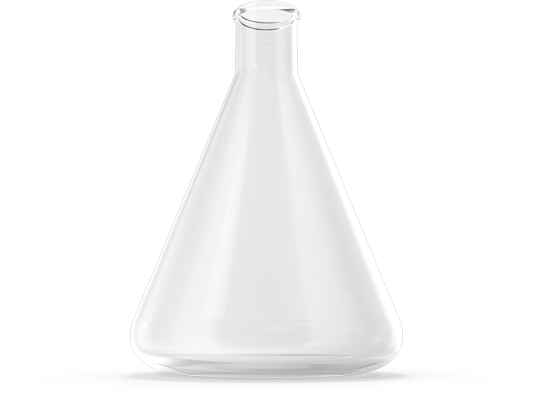
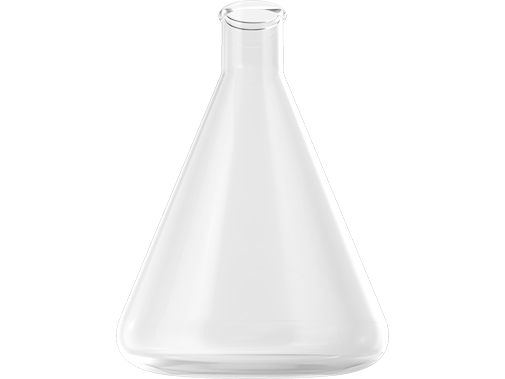
layout edits

diff --git a/src/css/style.min.css b/src/css/style.min.css
@@ -1,1 +1,1 @@
-@font-face{font-family:Gilroy-Regular;src:url(../fonts/Gilroy-Regular/Gilroy-Regular.woff) format("woff");font-weight:400;font-style:normal}@font-face{font-family:Gilroy-SemiBold;src:url(../fonts/Gilroy-SemiBold/Gilroy-SemiBold.woff) format("woff");font-weight:400;font-style:normal}@font-face{font-family:Gilroy-Bold;src:url(../fonts/Gilroy-Bold/Gilroy-Bold.woff) format("woff");font-weight:400;font-style:normal}@font-face{font-family:Gilroy-ExtraBold;src:url(../fonts/Gilroy-ExtraBold/Gilroy-ExtraBold.woff) format("woff");font-weight:400;font-style:normal}@font-face{font-family:Gilroy-Medium;src:url(../fonts/Gilroy-Medium/Gilroy-Medium.woff) format("woff");font-weight:400;font-style:normal}@font-face{font-family:GothamPro-Medium;src:url(../fonts/GothamPro-Medium/GothamPro-Medium.woff) format("woff");font-weight:400;font-style:normal}@font-face{font-family:TheFlowerCity;src:url(../fonts/TheFlowerCity/TheFlowerCity.woff2) format("woff2"),url(../fonts/TheFlowerCity/TheFlowerCity.woff) format("woff");font-weight:400;font-style:normal}*,:after,:before{box-sizing:border-box}html{font-size:16px;line-height:24px;font-family:Gilroy-Regular,sans-serif;color:#0d0d0d;font-style:normal;background-color:#fbf7ff}body,html{overflow-x:hidden}h1,h2,h3,p{margin:0}img{max-width:100%;height:auto}a,a:active,a:hover,a:visited{text-decoration:none}a{color:inherit}strong{font-family:Gilroy-Bold,sans-serif}textarea{resize:vertical}.about-section{background-image:url(../img/about-bg.jpg);background-repeat:no-repeat;background-position:center 0;background-size:auto;padding-top:176px;padding-bottom:160px}.about-section__content{width:50%;padding-right:20px}.about-section__header{margin-bottom:47px}.about-section__text{font-size:18px}.algorithm-node{width:72px;height:72px;border-radius:50%;position:relative;box-shadow:0 3px 5px 0 hsla(0,0%,9%,.02),0 8px 24px 0 rgba(242,186,67,.35);background-color:#fff}.algorithm-node__inner{background-image:-webkit-radial-gradient(50% 50%,circle closest-side,#ffefa1 0,#ecc529 100%);box-shadow:inset 0 -4px 7px 0 rgba(190,113,2,.25)}.algorithm-node__image,.algorithm-node__inner{position:absolute;top:5px;right:5px;bottom:5px;left:5px;border-radius:50px;z-index:1}.algorithm-node__image{background-size:auto;background-repeat:no-repeat;background-position:50%}.algorithm-node__number{position:absolute;font-family:TheFlowerCity;font-size:50px;color:#fdebfc;opacity:.3;transform:matrix(1.97668,-.29147,.29147,1.97668,0,0);left:-15px;bottom:91%;line-height:normal}.algorithm-node_description{width:24px;height:24px}.algorithm-node__text{font-size:18px;position:absolute;top:36px;text-align:center;left:-60px;right:-60px;font-family:Gilroy-Medium,sans-serif}.algorithm-section{background-image:url(../img/algorithm-bg.jpg);background-repeat:no-repeat;background-position:center 0;background-size:auto;padding-top:198px;padding-bottom:220px}.algorithm-section__header{margin-bottom:35px}.algorithm{display:-ms-flexbox;display:flex;-ms-flex-pack:justify;justify-content:space-between;-ms-flex-align:center;align-items:center;padding:183px 0;position:relative}.algorithm:before{content:"";height:4px;position:absolute;top:0;bottom:0;left:0;right:0;margin:auto;background-image:url(../img/algorithm/dot.png)}.algorithm__entity{position:relative;width:72px;height:72px}.algorithm__entity:before{content:"";width:4px;position:absolute;margin:auto;top:50%;left:0;right:0;height:145px;background-image:url(../img/algorithm/dot.png)}.algorithm__entity:nth-child(2n):before{top:auto;bottom:50%}.algorithm__entity:nth-child(2n) .algorithm__description-node{top:auto;bottom:169px}.algorithm__entity:nth-child(2n) .algorithm-node__number{left:auto;bottom:auto;top:52%;right:16px}.algorithm__description-node{position:absolute;margin:auto;left:0;right:0;top:169px}.button{text-shadow:0 2px 0 hsla(50,94%,79%,.004);font-size:16px;color:#0e0e0e;background-image:url(../img/button-bg.png);background-size:contain;background-repeat:no-repeat;box-shadow:0 3px 0 0 rgba(228,177,0,.004),inset 0 2px 27px 0 rgba(225,176,4,.004);width:295px;height:90px;border-radius:28px;display:-ms-flexbox;display:flex;-ms-flex-align:center;align-items:center;-ms-flex-pack:center;justify-content:center;font-family:GothamPro-Medium,sans-serif;text-transform:uppercase;letter-spacing:1px;max-width:100%;-webkit-tap-highlight-color:rgba(255,255,255,0)}.calculator-section{padding-top:47px;padding-bottom:50px}.calculator-section__container{display:grid;grid-template-areas:"a b" "a c" "a d" "a e" "f g";grid-template-columns:505px 1fr;grid-template-rows:145px 148px 70px 84px}.calculator-section__flask-section{grid-area:a;width:100%;max-width:505px;background-image:url(../img/calculator-bg.jpg);background-repeat:no-repeat;background-position:center 0;background-size:auto;background-position:0 0;background-size:contain;height:550px;padding-top:120px}.calculator-section__total{grid-area:f;font-family:Gilroy-Bold,sans-serif;font-size:25px;text-align:center;white-space:nowrap;padding-top:65px}.calculator-section__calculator{padding-top:20px;padding-left:36px;width:50%;margin-left:auto}.calculator-section__header-wrapper{grid-area:b;margin-left:116px;padding-top:19px}.calculator-section__checkboxes-wrapper{grid-area:c;padding-left:116px}.calculator-section__range-wrapper{grid-area:d;padding-left:116px}.calculator-section__design-wrapper{grid-area:e;padding-left:116px}.calculator-section__button-wrapper{grid-area:g;padding-left:116px}.checkbox-label{display:-ms-flexbox;display:flex;-ms-flex-align:center;align-items:center;font-size:18px;font-family:Gilroy-SemiBold,sans-serif}.checkbox-label__checkbox{margin-right:15px;-ms-flex-negative:0;flex-shrink:0}.checkbox{display:block;position:relative;width:34px;height:34px;border-radius:8px;background-color:#f3eef7;box-shadow:inset 0 3px 5px 0 rgba(73,56,91,.05)}.checkbox__mark{opacity:0;position:absolute;top:0;right:0;bottom:0;left:0;background-image:url(../img/checkbox-mark.png);background-repeat:no-repeat;background-position:50%;transition:opacity .1s ease}.checkbox__input{display:none}.checkbox__input:checked+.checkbox__mark{opacity:1}.checkboxes{display:grid;grid-template-rows:1fr 1fr;grid-template-columns:1fr 1fr;grid-row-gap:15px;max-width:358px}.container{max-width:1170px;width:100%;margin:0 auto}.email{padding-left:26px;background-image:url(../img/envelop.png);background-repeat:no-repeat;background-position:0}.flask{width:100%;max-width:547px;height:395px;background-image:url(../img/flask.png);background-size:contain;position:relative}.flask,.flask__full{background-repeat:no-repeat;background-position:bottom}.flask__full{position:absolute;left:0;right:0;bottom:0;height:0;background-image:url(../img/flask_full.png);background-size:100%;transition:height .2s}.footer{background-color:#0d0d0d;color:#e5e5e5;padding:53px 0 52px;font-size:18px}.footer__container{display:grid;grid-template-columns:repeat(3,1fr)}.footer__item{display:-ms-flexbox;display:flex;-ms-flex-align:center;align-items:center;-ms-flex-pack:center;justify-content:center}.footer__item_logo{-ms-flex-pack:start;justify-content:flex-start}.footer__copyright{text-align:center;padding-top:5px}.footer__contacts{display:-ms-flexbox;display:flex;-ms-flex-pack:end;justify-content:flex-end}.footer__phone{margin-bottom:7px}.header-phone{width:203px;margin-top:-7px}.header-phone__phone{font-size:22px;color:#0d0d0d;letter-spacing:-.2px;margin-bottom:7px}.header-phone__callback{display:block;color:#5f22b2;font-size:16px;position:relative;padding-bottom:2px}.header-phone__callback:after{content:"";position:absolute;left:0;right:0;bottom:0;height:2px;background-image:url(../img/phone-dot.png)}.header{display:-ms-flexbox;display:flex;-ms-flex-align:center;align-items:center;-ms-flex-pack:justify;justify-content:space-between;padding-top:64px}.logo{padding-left:80px;position:relative;font-size:20px}.logo:before{content:"";width:62px;height:95px;position:absolute;left:0;bottom:-10px;background-image:url(../img/logo.png);background-repeat:no-repeat}.logo_footer:before{background-image:url(../img/logo_footer.png)}.main-section{padding-bottom:356px;background-image:url(../img/main-bg.jpg);background-repeat:no-repeat;background-position:center 0;background-size:auto}.main-section__header{margin-bottom:209px}.main__header{width:650px;font-size:55px;line-height:70px;margin-bottom:36px;position:relative}.main__important-text{font-family:Gilroy-ExtraBold,sans-serif;color:#5f22b2}.not-selectable{-webkit-user-select:none;-moz-user-select:none;-ms-user-select:none;user-select:none}.phone{display:block;padding-left:24px;background-image:url(../img/phone.png);background-repeat:no-repeat;background-position:0;font-family:Gilroy-Medium,sans-serif;white-space:nowrap}.range{background-color:#f3eef7;box-shadow:inset 0 3px 5px 0 rgba(73,56,91,.05);width:100%;max-width:451px;height:11px;border-radius:50px;position:relative}.range__filled{width:33%;opacity:.839;left:0}.range__filled,.range__thumb{background-image:linear-gradient(90deg,#7930ab,#b966d1);position:absolute;top:0;bottom:0;border-radius:50px}.range__thumb{width:34px;height:34px;transform:translateX(-50%);box-shadow:0 3px 7px 0 rgba(163,87,201,.26);margin:auto;left:33%;cursor:pointer}.range__thumb:after{content:"";width:14px;height:14px;border-radius:50px;background-color:#fff;top:0;bottom:0}.range__count,.range__thumb:after{position:absolute;right:0;left:0;margin:auto}.range__count{top:-30px;color:#853ab2;font-size:22px;font-family:Gilroy-Bold,sans-serif}.range__count,.range__text{text-align:center;cursor:auto}.range__text{position:absolute;bottom:-30px;left:-60px;right:-60px;white-space:nowrap;font-size:18px;opacity:.6}.request-section{background-image:url(../img/request-bg.jpg);background-repeat:no-repeat;background-position:center 0;background-size:auto;padding-top:115px;padding-bottom:140px}.request-section__content{width:50%;margin-left:auto;padding-left:35px}.request-section__header{margin-bottom:23px}.request-section__text{margin-bottom:35px;color:#696969;font-size:18px;padding-right:50px}.section-header{font-size:50px;line-height:normal;font-weight:400;position:relative;z-index:1}.section-header__background{position:absolute;top:0;bottom:0;left:-20px;margin:auto;transform:rotate(-10deg);font-size:80px;color:#fdebfc;font-family:TheFlowerCity;text-align:center;width:10px;white-space:nowrap;z-index:-1}.section{padding-left:20px;padding-right:20px}.service{width:282px;height:181px;background-image:url(../img/services/service-bg.png);background-size:100% 100%;display:-ms-flexbox;display:flex;-ms-flex-align:center;align-items:center;padding-left:45px;padding-right:35px;font-size:18px;position:relative}.service:before{content:"";position:absolute;top:0;right:0;bottom:0;left:0;background-image:url(../img/services/service-bg_hover.png);background-size:inherit;opacity:0;transition:opacity .2s}.service:hover .service__circle:after,.service:hover:before{opacity:1}.service__content{z-index:1}.service__circle{position:absolute;width:67px;height:67px;border-radius:50%;background-image:-webkit-radial-gradient(50% 50%,circle closest-side,#ebdaf2 0,#d1b3fa 100%)}.service__circle:after{content:"";border-radius:50px;background-image:-webkit-radial-gradient(50% 50%,circle closest-side,#cd74d7 0,#5f22b2 100%);transition:opacity .2s;opacity:0}.service__circle:after,.service__image{position:absolute;top:0;right:0;bottom:0;left:0}.service__image{background-repeat:no-repeat}.service__illustration{width:150px;height:130px;position:absolute;left:5px;bottom:131px}.service__illustration_1 .service__circle_1{top:49px;left:2px}.service__illustration_1 .service__circle_2{top:38px;left:81px;width:22px;height:22px}.service__illustration_1 .service__circle_3{width:11px;height:11px;top:71px;left:115px}.service__illustration_1 .service__image{background-image:url(../img/services/1.png);background-position:11px 62px}.service__illustration_2 .service__circle_1{top:13px;left:53px;width:83px;height:83px}.service__illustration_2 .service__circle_2{top:82px;left:143px;width:22px;height:22px}.service__illustration_2 .service__image{background-image:url(../img/services/2.png);background-position:15px 29px}.service__illustration_3 .service__circle_1{top:55px;left:1px;width:67px;height:67px}.service__illustration_3 .service__circle_2{top:30px;left:65px;width:22px;height:22px}.service__illustration_3 .service__image{background-image:url(../img/services/3.png);background-position:2px 22px}.service__illustration_4 .service__circle_1{width:22px;height:22px;top:60px;left:7px}.service__illustration_4 .service__circle_2{top:114px;left:37px;width:11px;height:11px}.service__illustration_4 .service__circle_3{top:73px;left:67px;width:40px;height:40px}.service__illustration_4 .service__image{background-image:url(../img/services/4.png);background-position:4px 17px}.services-section{padding-bottom:89px}.services-section__header{margin-bottom:114px}.services-section__services{display:grid;grid-template-columns:repeat(4,282px);grid-gap:14px}.services-section__item{margin:auto}@media (min-width:769px) and (max-width:1024px){.calculator-section__container{grid-template-areas:"a b" "a c" "a d" "f e" "f g";grid-template-columns:415px 1fr}}@media (min-width:769px) and (max-width:1199px){.services-section__services{grid-template-columns:1fr 1fr;grid-template-rows:1fr 1fr;grid-row-gap:100px}}@media (max-width:768px){.about-section{padding-top:106px;background-image:url(../img/about-bg_mobile.jpg);height:854px}.about-section__content{width:auto;padding:0}.about-section__header{margin-bottom:26px}.about-section__text{font-size:16px;text-align:center;margin-left:auto;margin-right:auto;max-width:320px}.algorithm-node__number{display:none}.algorithm-node__text{font-size:16px;top:auto;bottom:31px}.algorithm-node__text_mobile-fix{text-align:left;transform:translate(23px)}.algorithm-section{background-image:url(../img/algorithm-bg_mobile.jpg);margin-top:-97px;padding-bottom:184px}.algorithm-section__header{margin-bottom:54px}.algorithm{-ms-flex-direction:column;flex-direction:column;padding:0}.algorithm:before{height:auto;width:4px}.algorithm__entity:before{top:0;left:50%;bottom:0;right:auto;width:108px;height:4px}.algorithm__entity:nth-child(2n):before{top:0;bottom:0;right:50%;left:auto}.algorithm__entity:nth-child(2n) .algorithm__description-node{bottom:0;top:0;left:auto;right:130px}.algorithm__entity:not(:last-child){margin-bottom:75px}.algorithm__description-node{top:0;bottom:0;left:130px}.button{background-image:url(../img/button-bg_mobile.png);max-width:320px;width:100%;height:78px}.calculator-section{padding-top:0;padding-bottom:0;margin-top:-100px;background-image:url(../img/calculator-bg_mobile.jpg);background-repeat:no-repeat;background-position:center 0;background-size:auto;background-position:center 33px}.calculator-section__container{max-width:320px;grid-template-areas:"b b" "a c" "d d" "e e" "f f" "g g";grid-template-columns:132px 1fr;grid-template-rows:101px 253px 77px 0 159px}.calculator-section__flask-section{background-image:none;position:relative}.calculator-section__flask{position:absolute;top:-7px;left:-150px;width:288px}.calculator-section__total{font-family:Gilroy-Bold,sans-serif;font-size:24px;text-align:left;padding-left:48px}.calculator-section__total-text{font-family:Gilroy-Regular,sans-serif;font-size:18px;display:block;opacity:.61;margin-bottom:5px}.calculator-section__calculator{width:auto;margin:0;padding-left:0}.calculator-section__header-wrapper{margin-left:0}.calculator-section__checkboxes{position:absolute;top:0;left:0}.calculator-section__checkboxes-wrapper{padding-left:0;position:relative}.calculator-section__design-wrapper,.calculator-section__range-wrapper{padding-left:0}.calculator-section__button{margin:auto}.calculator-section__button-wrapper{padding-left:0}.checkbox-label__checkbox{margin-right:10px}.checkboxes__item_vk{grid-area:h}.checkboxes__item_instagram{grid-area:i}.checkboxes__item_fb{grid-area:j}.checkboxes__item_ok{grid-area:k}.checkboxes{grid-template-areas:"i" "j" "h" "k";grid-template-columns:1fr;grid-template-rows:repeat(4,1fr)}.footer{padding-top:54px;padding-bottom:30px}.footer__container{display:-ms-flexbox;display:flex;-ms-flex-direction:column;flex-direction:column}.footer__item{display:-ms-flexbox;display:flex;-ms-flex-pack:center;justify-content:center;margin-bottom:30px}.footer__item_copyright{-ms-flex-order:3;order:3;margin-bottom:0}.footer__item_contacts{-ms-flex-order:2;order:2;margin-bottom:27px}.footer__copyright{color:#645f6f}.header-phone{width:34px;height:34px}.header-phone__phone{color:transparent;width:100%;height:100%;overflow:hidden;background-image:url(../img/phone_mobile.png)}.header-phone__callback{display:none}.header{padding-top:25px}.logo{font-size:18px;padding-left:50px;line-height:22px}.logo:before{width:40px;height:70px;background-size:contain}.logo_footer{font-size:20px;padding-left:82px;margin-bottom:15px}.logo_footer:before{width:62px;height:95px}.main-section{background-image:url(../img/main-bg_mobile.jpg);height:720px}.main-section__header{margin-bottom:40px}.main__header{text-align:center;font-size:34px;line-height:45px;width:auto;font-family:Gilroy-Regular,sans-serif;margin:0 auto 60px;font-weight:400;max-width:400px}.main__button-wrapper{margin:auto;position:absolute;left:0;right:0;top:560px;padding:0 20px;display:-ms-flexbox;display:flex;-ms-flex-pack:center;justify-content:center}.request-section{padding-top:36px;padding-bottom:390px;background-image:url(../img/request-bg_mobile.jpg);background-position:bottom}.request-section__content{width:auto;margin:0;padding-left:0}.request-section__text{text-align:center;padding:0;margin-bottom:46px}.request-section__button{margin:auto}.section-header{font-size:34px;text-align:center}.section-header__background{font-size:37px;text-align:center;transform:matrix(1.56752,-.23114,.23114,1.56752,0,0);left:0;right:0;margin:auto;width:auto}.services-section{padding-bottom:0}.services-section__services{width:100%;grid-template-columns:1fr;grid-template-rows:repeat(4,1fr);grid-gap:100px}}@media (max-width:425px){.main__header{font-size:24px;line-height:35px}.section-header{font-size:25px;line-height:33px}.section-header__background{font-size:27px}.service__illustration{left:0;right:0;margin:auto}.services-section__header{margin-bottom:71px}}
+@font-face{font-family:Gilroy-Regular;src:url(../fonts/Gilroy-Regular/Gilroy-Regular.woff) format("woff");font-weight:400;font-style:normal}@font-face{font-family:Gilroy-SemiBold;src:url(../fonts/Gilroy-SemiBold/Gilroy-SemiBold.woff) format("woff");font-weight:400;font-style:normal}@font-face{font-family:Gilroy-Bold;src:url(../fonts/Gilroy-Bold/Gilroy-Bold.woff) format("woff");font-weight:400;font-style:normal}@font-face{font-family:Gilroy-ExtraBold;src:url(../fonts/Gilroy-ExtraBold/Gilroy-ExtraBold.woff) format("woff");font-weight:400;font-style:normal}@font-face{font-family:Gilroy-Medium;src:url(../fonts/Gilroy-Medium/Gilroy-Medium.woff) format("woff");font-weight:400;font-style:normal}@font-face{font-family:GothamPro-Medium;src:url(../fonts/GothamPro-Medium/GothamPro-Medium.woff) format("woff");font-weight:400;font-style:normal}@font-face{font-family:TheFlowerCity;src:url(../fonts/TheFlowerCity/TheFlowerCity.woff2) format("woff2"),url(../fonts/TheFlowerCity/TheFlowerCity.woff) format("woff");font-weight:400;font-style:normal}*,:after,:before{box-sizing:border-box}html{font-size:16px;line-height:24px;font-family:Gilroy-Regular,sans-serif;color:#0d0d0d;font-style:normal;background-color:#fbf7ff}body,html{overflow-x:hidden}h1,h2,h3,p{margin:0}img{max-width:100%;height:auto}a,a:active,a:hover,a:visited{text-decoration:none}a{color:inherit}strong{font-family:Gilroy-Bold,sans-serif}textarea{resize:vertical}.about-section{background-image:url(../img/about-bg.jpg);background-repeat:no-repeat;background-position:center 0;background-size:auto;padding-top:176px;padding-bottom:160px}.about-section__content{width:50%;padding-right:20px}.about-section__header{margin-bottom:47px}.about-section__text{font-size:18px}.algorithm-node{width:72px;height:72px;border-radius:50%;position:relative;box-shadow:0 3px 5px 0 hsla(0,0%,9%,.02),0 8px 24px 0 rgba(242,186,67,.35);background-color:#fff}.algorithm-node__inner{background-image:-webkit-radial-gradient(50% 50%,circle closest-side,#ffefa1 0,#ecc529 100%);box-shadow:inset 0 -4px 7px 0 rgba(190,113,2,.25)}.algorithm-node__image,.algorithm-node__inner{position:absolute;top:5px;right:5px;bottom:5px;left:5px;border-radius:50px;z-index:1}.algorithm-node__image{background-size:auto;background-repeat:no-repeat;background-position:50%}.algorithm-node__number{position:absolute;font-family:TheFlowerCity;font-size:50px;color:#fdebfc;opacity:.3;transform:matrix(1.97668,-.29147,.29147,1.97668,0,0);left:-15px;bottom:91%;line-height:normal}.algorithm-node_description{width:24px;height:24px}.algorithm-node__text{font-size:18px;position:absolute;top:36px;text-align:center;left:-60px;right:-60px;font-family:Gilroy-Medium,sans-serif}.algorithm-section{background-image:url(../img/algorithm-bg.jpg);background-repeat:no-repeat;background-position:center 0;background-size:auto;padding-top:198px;padding-bottom:220px}.algorithm-section__header{margin-bottom:35px}.algorithm{display:-ms-flexbox;display:flex;-ms-flex-pack:justify;justify-content:space-between;-ms-flex-align:center;align-items:center;padding:183px 0;position:relative}.algorithm:before{content:"";height:4px;position:absolute;top:0;bottom:0;left:0;right:0;margin:auto;background-image:url(../img/algorithm/dot.png)}.algorithm__entity{position:relative;width:72px;height:72px}.algorithm__entity:before{content:"";width:4px;position:absolute;margin:auto;top:50%;left:0;right:0;height:145px;background-image:url(../img/algorithm/dot.png)}.algorithm__entity:nth-child(2n):before{top:auto;bottom:50%}.algorithm__entity:nth-child(2n) .algorithm__description-node{top:auto;bottom:169px}.algorithm__entity:nth-child(2n) .algorithm-node__number{left:auto;bottom:auto;top:52%;right:16px}.algorithm__entity:nth-child(2n) .algorithm-node__text{top:auto;bottom:36px}.algorithm__description-node{position:absolute;margin:auto;left:0;right:0;top:169px}.button{text-shadow:0 2px 0 hsla(50,94%,79%,.004);font-size:16px;color:#0e0e0e;background-image:url(../img/button-bg.png);background-size:contain;background-repeat:no-repeat;box-shadow:0 3px 0 0 rgba(228,177,0,.004),inset 0 2px 27px 0 rgba(225,176,4,.004);width:295px;height:90px;border-radius:28px;display:-ms-flexbox;display:flex;-ms-flex-align:center;align-items:center;-ms-flex-pack:center;justify-content:center;font-family:GothamPro-Medium,sans-serif;text-transform:uppercase;letter-spacing:1px;max-width:100%;-webkit-tap-highlight-color:rgba(255,255,255,0);transition:all .2s;transform:scale(1)}.button:hover{transform:scale(1.03)}.button:active{transform:scale(1.04)}.calculator-section{padding-top:47px;padding-bottom:50px}.calculator-section__container{display:grid;grid-template-areas:"a b" "a c" "a d" "a e" "f g";grid-template-columns:505px 1fr;grid-template-rows:145px 148px 70px 84px}.calculator-section__flask-section{grid-area:a;width:100%;max-width:505px;background-image:url(../img/calculator-bg.jpg);background-repeat:no-repeat;background-position:center 0;background-size:auto;background-position:0 0;background-size:contain;height:550px;padding-top:120px}.calculator-section__total{grid-area:f;font-family:Gilroy-Bold,sans-serif;font-size:25px;text-align:center;white-space:nowrap;padding-top:65px}.calculator-section__calculator{padding-top:20px;padding-left:36px;width:50%;margin-left:auto}.calculator-section__header-wrapper{grid-area:b;margin-left:116px;padding-top:19px}.calculator-section__checkboxes-wrapper{grid-area:c;padding-left:116px}.calculator-section__range-wrapper{grid-area:d;padding-left:116px}.calculator-section__design-wrapper{grid-area:e;padding-left:116px}.calculator-section__button-wrapper{grid-area:g;padding-left:116px}.checkbox-label{display:-ms-flexbox;display:flex;-ms-flex-align:center;align-items:center;font-size:18px;font-family:Gilroy-SemiBold,sans-serif}.checkbox-label__checkbox{margin-right:15px;-ms-flex-negative:0;flex-shrink:0}.checkbox{display:block;position:relative;width:34px;height:34px;border-radius:8px;background-color:#f3eef7;box-shadow:inset 0 3px 5px 0 rgba(73,56,91,.05)}.checkbox__mark{opacity:0;position:absolute;top:0;right:0;bottom:0;left:0;background-image:url(../img/checkbox-mark.png);background-repeat:no-repeat;background-position:50%;transition:opacity .1s ease}.checkbox__input{display:none}.checkbox__input:checked+.checkbox__mark{opacity:1}.checkboxes{display:grid;grid-template-rows:1fr 1fr;grid-template-columns:1fr 1fr;grid-row-gap:15px;max-width:358px}.container{max-width:1170px;width:100%;margin:0 auto}.email{padding-left:26px;background-image:url(../img/envelop.png);background-repeat:no-repeat;background-position:0}.flask{width:100%;max-width:547px;height:395px;background-image:url(../img/flask.png);position:relative}.flask,.flask__full{background-repeat:no-repeat;background-size:100%;background-position:bottom}.flask__full{position:absolute;left:0;right:0;bottom:0;height:0;background-image:url(../img/flask_full.png);transition:height .2s}.footer{background-color:#0d0d0d;color:#e5e5e5;padding:53px 0 52px;font-size:18px}.footer__container{display:grid;grid-template-columns:repeat(3,1fr)}.footer__item{display:-ms-flexbox;display:flex;-ms-flex-align:center;align-items:center;-ms-flex-pack:center;justify-content:center}.footer__item_logo{-ms-flex-pack:start;justify-content:flex-start}.footer__copyright{text-align:center;padding-top:5px}.footer__contacts{display:-ms-flexbox;display:flex;-ms-flex-pack:end;justify-content:flex-end}.footer__phone{margin-bottom:7px}.header-phone{width:203px;margin-top:-7px}.header-phone__phone{font-size:22px;color:#0d0d0d;letter-spacing:-.2px;margin-bottom:7px}.header-phone__callback{display:block;color:#5f22b2;font-size:16px;position:relative;padding-bottom:2px}.header-phone__callback:after{content:"";position:absolute;left:0;right:0;bottom:0;height:2px;background-image:url(../img/phone-dot.png)}.header{display:-ms-flexbox;display:flex;-ms-flex-align:center;align-items:center;-ms-flex-pack:justify;justify-content:space-between;padding-top:64px}.logo{padding-left:80px;position:relative;font-size:20px}.logo:before{content:"";width:62px;height:95px;position:absolute;left:0;bottom:-10px;background-image:url(../img/logo.png);background-repeat:no-repeat}.logo_footer:before{background-image:url(../img/logo_footer.png)}.main-section{padding-bottom:356px;background-image:url(../img/main-bg.jpg);background-repeat:no-repeat;background-position:center 0;background-size:auto}.main-section__header{margin-bottom:209px}.main__header{width:650px;font-size:55px;line-height:70px;margin-bottom:36px;position:relative}.main__important-text{font-family:Gilroy-ExtraBold,sans-serif;color:#5f22b2}.not-selectable{-webkit-user-select:none;-moz-user-select:none;-ms-user-select:none;user-select:none}.phone{display:block;padding-left:24px;background-image:url(../img/phone.png);background-repeat:no-repeat;background-position:0;font-family:Gilroy-Medium,sans-serif;white-space:nowrap}.range{background-color:#f3eef7;box-shadow:inset 0 3px 5px 0 rgba(73,56,91,.05);width:100%;max-width:451px;height:11px;border-radius:50px;position:relative}.range__filled{width:33%;opacity:.839;left:0}.range__filled,.range__thumb{background-image:linear-gradient(90deg,#7930ab,#b966d1);position:absolute;top:0;bottom:0;border-radius:50px}.range__thumb{width:34px;height:34px;transform:translateX(-50%);box-shadow:0 3px 7px 0 rgba(163,87,201,.26);margin:auto;left:33%;cursor:pointer}.range__thumb:after{content:"";width:14px;height:14px;border-radius:50px;background-color:#fff;top:0;bottom:0}.range__count,.range__thumb:after{position:absolute;right:0;left:0;margin:auto}.range__count{top:-30px;color:#853ab2;font-size:22px;font-family:Gilroy-Bold,sans-serif}.range__count,.range__text{text-align:center;cursor:auto}.range__text{position:absolute;bottom:-30px;left:-60px;right:-60px;white-space:nowrap;font-size:18px;opacity:.6}.request-section{background-image:url(../img/request-bg.jpg);background-repeat:no-repeat;background-position:center 0;background-size:auto;padding-top:115px;padding-bottom:140px}.request-section__content{width:50%;margin-left:auto;padding-left:35px}.request-section__header{margin-bottom:23px}.request-section__text{margin-bottom:35px;color:#696969;font-size:18px;padding-right:50px}.section-header{font-size:50px;line-height:normal;font-weight:400;position:relative;z-index:1}.section-header__background{position:absolute;top:0;bottom:0;left:-20px;margin:auto;transform:rotate(-10deg);font-size:80px;color:#fdebfc;font-family:TheFlowerCity;text-align:center;width:10px;white-space:nowrap;z-index:-1}.section{padding-left:20px;padding-right:20px}.service{width:282px;height:181px;background-image:url(../img/services/service-bg.png);background-size:100% 100%;display:-ms-flexbox;display:flex;-ms-flex-align:center;align-items:center;padding-left:45px;padding-right:35px;font-size:18px;position:relative}.service:before{content:"";position:absolute;top:0;right:0;bottom:0;left:0;background-image:url(../img/services/service-bg_hover.png);background-size:inherit;opacity:0;transition:opacity .2s}.service:hover .service__circle:after,.service:hover:before{opacity:1}.service__content{z-index:1}.service__circle{position:absolute;width:67px;height:67px;border-radius:50%;background-image:-webkit-radial-gradient(50% 50%,circle closest-side,#ebdaf2 0,#d1b3fa 100%)}.service__circle:after{content:"";border-radius:50px;background-image:-webkit-radial-gradient(50% 50%,circle closest-side,#cd74d7 0,#5f22b2 100%);transition:opacity .2s;opacity:0}.service__circle:after,.service__image{position:absolute;top:0;right:0;bottom:0;left:0}.service__image{background-repeat:no-repeat}.service__illustration{width:150px;height:130px;position:absolute;left:5px;bottom:131px}.service__illustration_1 .service__circle_1{top:49px;left:2px}.service__illustration_1 .service__circle_2{top:38px;left:81px;width:22px;height:22px}.service__illustration_1 .service__circle_3{width:11px;height:11px;top:71px;left:115px}.service__illustration_1 .service__image{background-image:url(../img/services/1.png);background-position:11px 62px}.service__illustration_2 .service__circle_1{top:13px;left:53px;width:83px;height:83px}.service__illustration_2 .service__circle_2{top:82px;left:143px;width:22px;height:22px}.service__illustration_2 .service__image{background-image:url(../img/services/2.png);background-position:15px 29px}.service__illustration_3 .service__circle_1{top:55px;left:1px;width:67px;height:67px}.service__illustration_3 .service__circle_2{top:30px;left:65px;width:22px;height:22px}.service__illustration_3 .service__image{background-image:url(../img/services/3.png);background-position:2px 22px}.service__illustration_4 .service__circle_1{width:22px;height:22px;top:60px;left:7px}.service__illustration_4 .service__circle_2{top:114px;left:37px;width:11px;height:11px}.service__illustration_4 .service__circle_3{top:73px;left:67px;width:40px;height:40px}.service__illustration_4 .service__image{background-image:url(../img/services/4.png);background-position:4px 17px}.services-section{padding-bottom:89px}.services-section__header{margin-bottom:114px}.services-section__services{display:grid;grid-template-columns:repeat(4,282px);grid-gap:14px}.services-section__item{margin:auto}@media (min-width:769px) and (max-width:1024px){.calculator-section__container{grid-template-areas:"a b" "a c" "a d" "f e" "f g";grid-template-columns:415px 1fr}}@media (min-width:769px) and (max-width:1199px){.services-section__services{grid-template-columns:1fr 1fr;grid-template-rows:1fr 1fr;grid-row-gap:100px}}@media (max-width:768px){.about-section{padding-top:106px;background-image:url(../img/about-bg_mobile.jpg);height:854px}.about-section__content{width:auto;padding:0}.about-section__header{margin-bottom:26px}.about-section__text{font-size:16px;text-align:center;margin-left:auto;margin-right:auto;max-width:320px}.algorithm-node__number{display:none}.algorithm-node__text{font-size:16px;top:auto;bottom:31px}.algorithm-node__text_mobile-fix{text-align:left;transform:translate(23px)}.algorithm-section{background-image:url(../img/algorithm-bg_mobile.jpg);margin-top:-97px;padding-bottom:184px}.algorithm-section__header{margin-bottom:54px}.algorithm{-ms-flex-direction:column;flex-direction:column;padding:0}.algorithm:before{height:auto;width:4px}.algorithm__entity:before{top:0;left:50%;bottom:0;right:auto;width:108px;height:4px}.algorithm__entity:nth-child(2n):before{top:0;bottom:0;right:50%;left:auto}.algorithm__entity:nth-child(2n) .algorithm__description-node{bottom:0;top:0;left:auto;right:130px}.algorithm__entity:not(:last-child){margin-bottom:75px}.algorithm__description-node{top:0;bottom:0;left:130px}.button{background-image:url(../img/button-bg_mobile.png);max-width:320px;width:100%;height:78px}.calculator-section{padding-top:0;padding-bottom:0;margin-top:-100px;background-image:url(../img/calculator-bg_mobile.jpg);background-repeat:no-repeat;background-position:center 0;background-size:auto;background-position:center 33px}.calculator-section__container{max-width:320px;grid-template-areas:"b b" "a c" "d d" "e e" "f f" "g g";grid-template-columns:42.8% 57.2%;grid-template-rows:101px 253px 77px 0 159px}.calculator-section__flask-section{background-image:none;position:relative}.calculator-section__flask{position:absolute;top:-8px;right:10px;width:267px}.calculator-section__total{font-family:Gilroy-Bold,sans-serif;font-size:24px;text-align:left;padding-left:48px}.calculator-section__total-text{font-family:Gilroy-Regular,sans-serif;font-size:18px;display:block;opacity:.61;margin-bottom:5px}.calculator-section__calculator{width:auto;margin:0;padding-left:0}.calculator-section__header-wrapper{margin-left:0}.calculator-section__checkboxes{position:absolute;top:0;left:0}.calculator-section__checkboxes-wrapper{padding-left:0;position:relative}.calculator-section__design-wrapper,.calculator-section__range-wrapper{padding-left:0}.calculator-section__button{margin:auto}.calculator-section__button-wrapper{padding-left:0}.checkbox-label__checkbox{margin-right:10px}.checkboxes__item_vk{grid-area:h}.checkboxes__item_instagram{grid-area:i}.checkboxes__item_fb{grid-area:j}.checkboxes__item_ok{grid-area:k}.checkboxes{grid-template-areas:"i" "j" "h" "k";grid-template-columns:1fr;grid-template-rows:repeat(4,1fr)}.footer{padding-top:54px;padding-bottom:30px}.footer__container{display:-ms-flexbox;display:flex;-ms-flex-direction:column;flex-direction:column}.footer__item{display:-ms-flexbox;display:flex;-ms-flex-pack:center;justify-content:center;margin-bottom:30px}.footer__item_copyright{-ms-flex-order:3;order:3;margin-bottom:0}.footer__item_contacts{-ms-flex-order:2;order:2;margin-bottom:27px}.footer__copyright{color:#645f6f}.header-phone{width:34px;height:34px}.header-phone__phone{color:transparent;width:100%;height:100%;overflow:hidden;background-image:url(../img/phone_mobile.png)}.header-phone__callback{display:none}.header{padding-top:25px}.logo{font-size:18px;padding-left:50px;line-height:22px}.logo:before{width:40px;height:70px;background-size:contain}.logo_footer{font-size:20px;padding-left:82px;margin-bottom:15px}.logo_footer:before{width:62px;height:95px}.main-section{background-image:url(../img/main-bg_mobile.jpg);height:720px}.main-section__header{margin-bottom:40px}.main__header{text-align:center;font-size:34px;line-height:45px;width:auto;font-family:Gilroy-Regular,sans-serif;margin:0 auto 60px;font-weight:400;max-width:400px}.main__button-wrapper{margin:auto;position:absolute;left:0;right:0;top:560px;padding:0 20px;display:-ms-flexbox;display:flex;-ms-flex-pack:center;justify-content:center}.request-section{padding-top:36px;padding-bottom:390px;background-image:url(../img/request-bg_mobile.jpg);background-position:bottom}.request-section__content{width:auto;margin:0;padding-left:0}.request-section__text{text-align:center;padding:0;margin-bottom:46px}.request-section__button{margin:auto}.section-header{font-size:34px;text-align:center}.section-header__background{font-size:37px;text-align:center;transform:matrix(1.56752,-.23114,.23114,1.56752,0,0);left:0;right:0;margin:auto;width:auto}.services-section{padding-bottom:0}.services-section__services{width:100%;grid-template-columns:1fr;grid-template-rows:repeat(4,1fr);grid-gap:100px}}@media (max-width:425px){.main__header{font-size:24px;line-height:35px}.section-header{font-size:25px;line-height:33px}.section-header__background{font-size:27px}.service__illustration{left:0;right:0;margin:auto}.services-section__header{margin-bottom:71px}}

diff --git a/src/js/main.min.js b/src/js/main.min.js
@@ -61,7 +61,7 @@ class FlaskSection {
         this._section = section;
         this._DEFAUTL_WIDTH = 505;
         this._DEFAUTL_HEIGHT = 550;
-        this._DEFAUTL_PADDING_TOP = 120;
+        this._DEFAUTL_PADDING_TOP = 102;
         this._proportion = this._DEFAUTL_HEIGHT / this._DEFAUTL_WIDTH;
         this._paddingProportion = this._DEFAUTL_PADDING_TOP / this._DEFAUTL_WIDTH;
 
@@ -82,15 +82,15 @@ class Flask {
         this._fullness = fullness;
         this._filler = this._flask.querySelector('.flask__full');
 
-        this._MAX_FILLER_HEIGHT = 80;
+        this._MAX_FILLER_HEIGHT = 100;
         this._MIN_FILLER_HEIGHT = 14;
 
         this._fillerHeightRange = this._MAX_FILLER_HEIGHT - this._MIN_FILLER_HEIGHT;
 
         this._setFillerHeight();
 
-        this._DEFAULT_WIDTH = 547;
-        this._DEFAULT_HEIGHT = 395;
+        this._DEFAULT_WIDTH = 505;
+        this._DEFAULT_HEIGHT = 379;
         this._proportion = this._DEFAULT_HEIGHT / this._DEFAULT_WIDTH;
         this._setProportions = this._setProportions.bind(this);
         this._setProportions();

diff --git a/src/js/classes/Flask.js b/src/js/classes/Flask.js
@@ -4,15 +4,15 @@ class Flask {
         this._fullness = fullness;
         this._filler = this._flask.querySelector('.flask__full');
 
-        this._MAX_FILLER_HEIGHT = 80;
+        this._MAX_FILLER_HEIGHT = 100;
         this._MIN_FILLER_HEIGHT = 14;
 
         this._fillerHeightRange = this._MAX_FILLER_HEIGHT - this._MIN_FILLER_HEIGHT;
 
         this._setFillerHeight();
 
-        this._DEFAULT_WIDTH = 547;
-        this._DEFAULT_HEIGHT = 395;
+        this._DEFAULT_WIDTH = 505;
+        this._DEFAULT_HEIGHT = 379;
         this._proportion = this._DEFAULT_HEIGHT / this._DEFAULT_WIDTH;
         this._setProportions = this._setProportions.bind(this);
         this._setProportions();

diff --git a/src/sass/blocks/calculator-section.scss b/src/sass/blocks/calculator-section.scss
@@ -46,7 +46,7 @@
             "button button"
             ;
 
-            grid-template-columns: 132px 1fr;
+            grid-template-columns: 42.8% 57.2%;
             grid-template-rows: 101px 253px 77px 0px 159px;
         }
     }
@@ -70,9 +70,9 @@
     &__flask {
         @media ($tablet-width) {
             position: absolute;
-            top: -7px;
-            left: -150px;
-            width: 288px;
+            top: -8px;
+            right: 10px;
+            width: 267px;
         }
     }
 

diff --git a/src/js/classes/FlascSection.js b/src/js/classes/FlascSection.js
@@ -3,7 +3,7 @@ class FlaskSection {
         this._section = section;
         this._DEFAUTL_WIDTH = 505;
         this._DEFAUTL_HEIGHT = 550;
-        this._DEFAUTL_PADDING_TOP = 120;
+        this._DEFAUTL_PADDING_TOP = 102;
         this._proportion = this._DEFAUTL_HEIGHT / this._DEFAUTL_WIDTH;
         this._paddingProportion = this._DEFAUTL_PADDING_TOP / this._DEFAUTL_WIDTH;
 

diff --git a/src/sass/blocks/button.scss b/src/sass/blocks/button.scss
@@ -17,6 +17,16 @@
     letter-spacing: 1px;
     max-width: 100%;
     -webkit-tap-highlight-color: rgba(255,255,255,0);
+    transition: all .2s;
+    transform: scale(1);
+
+    &:hover {
+        transform: scale(1.03);
+    }
+
+    &:active {
+        transform: scale(1.04);
+    }
 
     @media ($tablet-width) {
         background-image: url(../img/button-bg_mobile.png);

diff --git a/src/sass/blocks/algorithm.scss b/src/sass/blocks/algorithm.scss
@@ -84,6 +84,11 @@
                 top: 52%;
                 right: 16px;
             }
+
+            .algorithm-node__text {
+                top: auto;
+                bottom: 36px;
+            }
         }
 
         @media ($tablet-width) {

diff --git a/src/sass/blocks/flask.scss b/src/sass/blocks/flask.scss
@@ -4,7 +4,7 @@
     height: 395px;
     background-image: url(../img/flask.png);
     background-repeat: no-repeat;
-    background-size: contain;
+    background-size: 100%;
     background-position: center bottom;
     position: relative;
 
